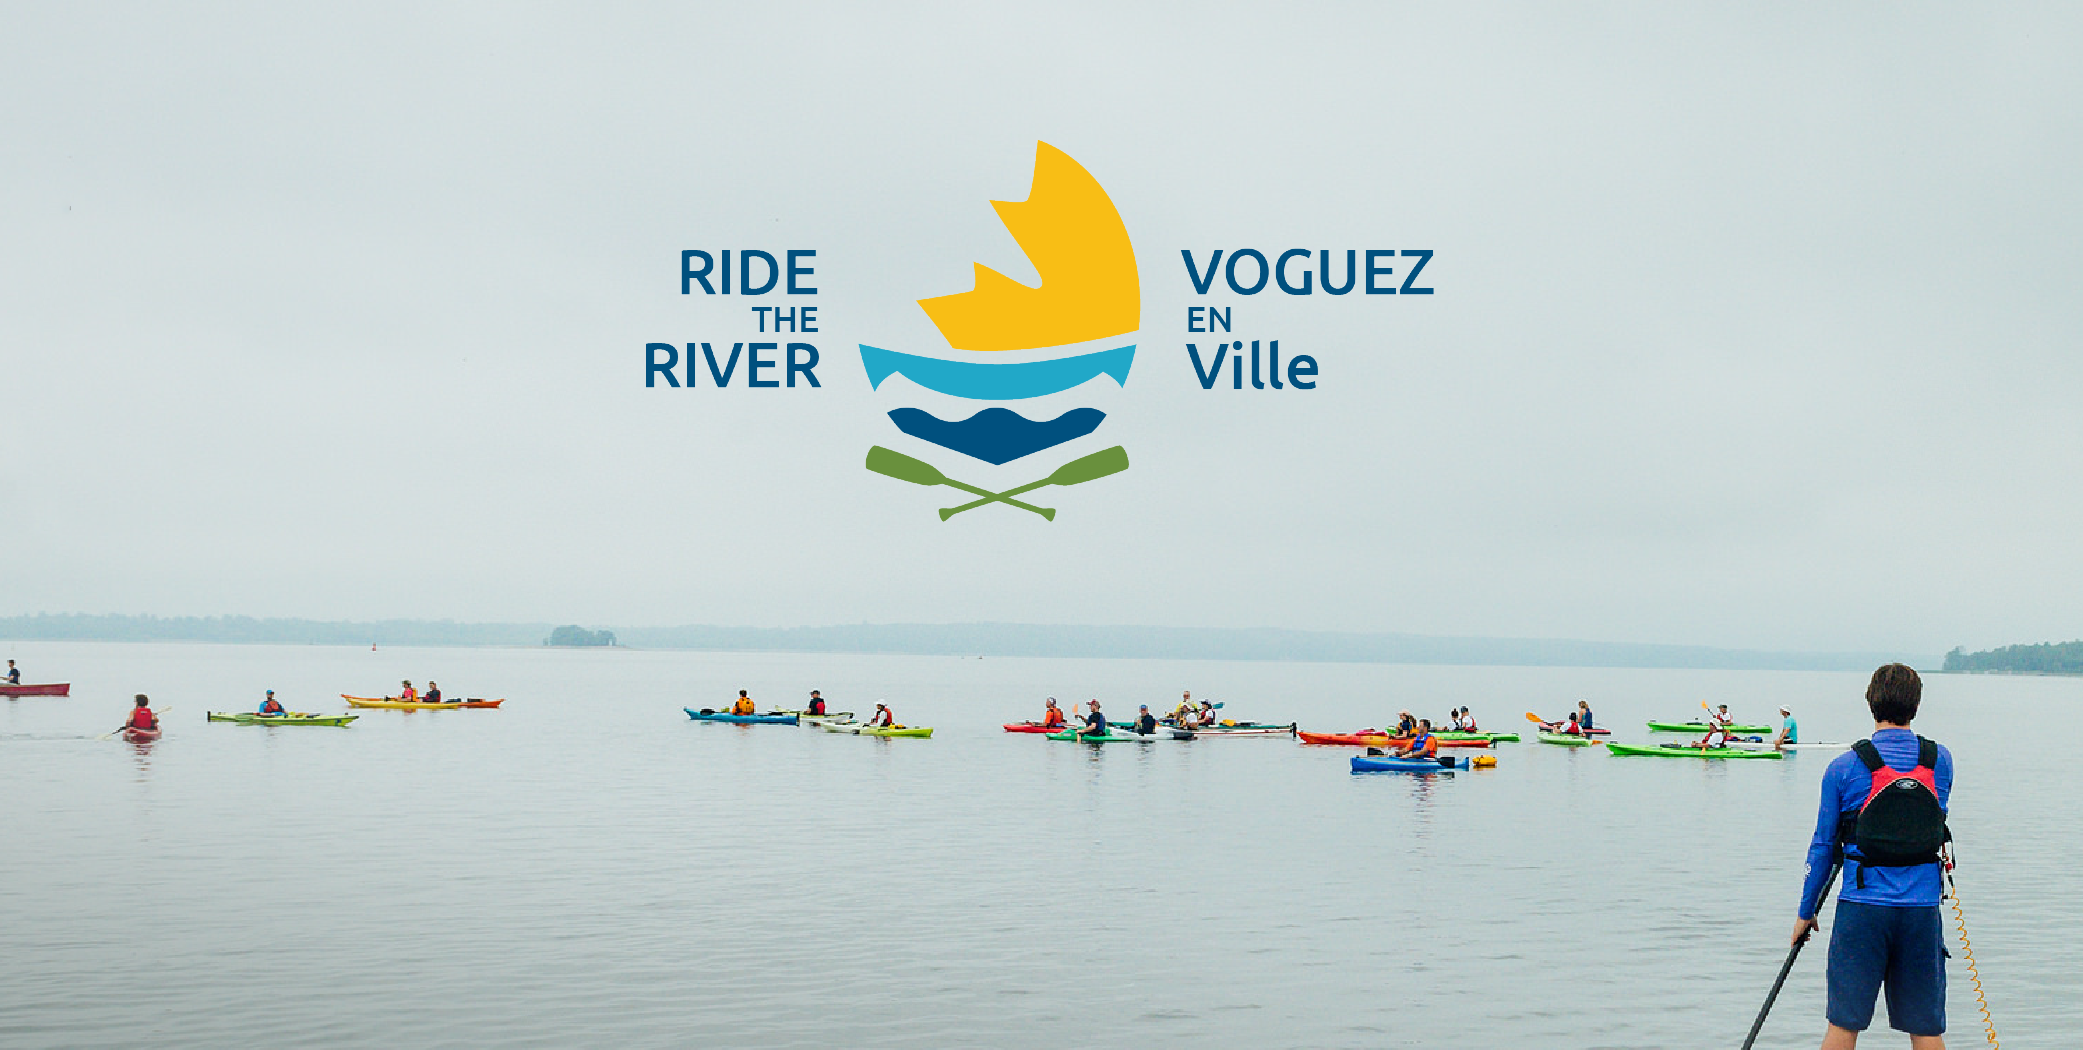
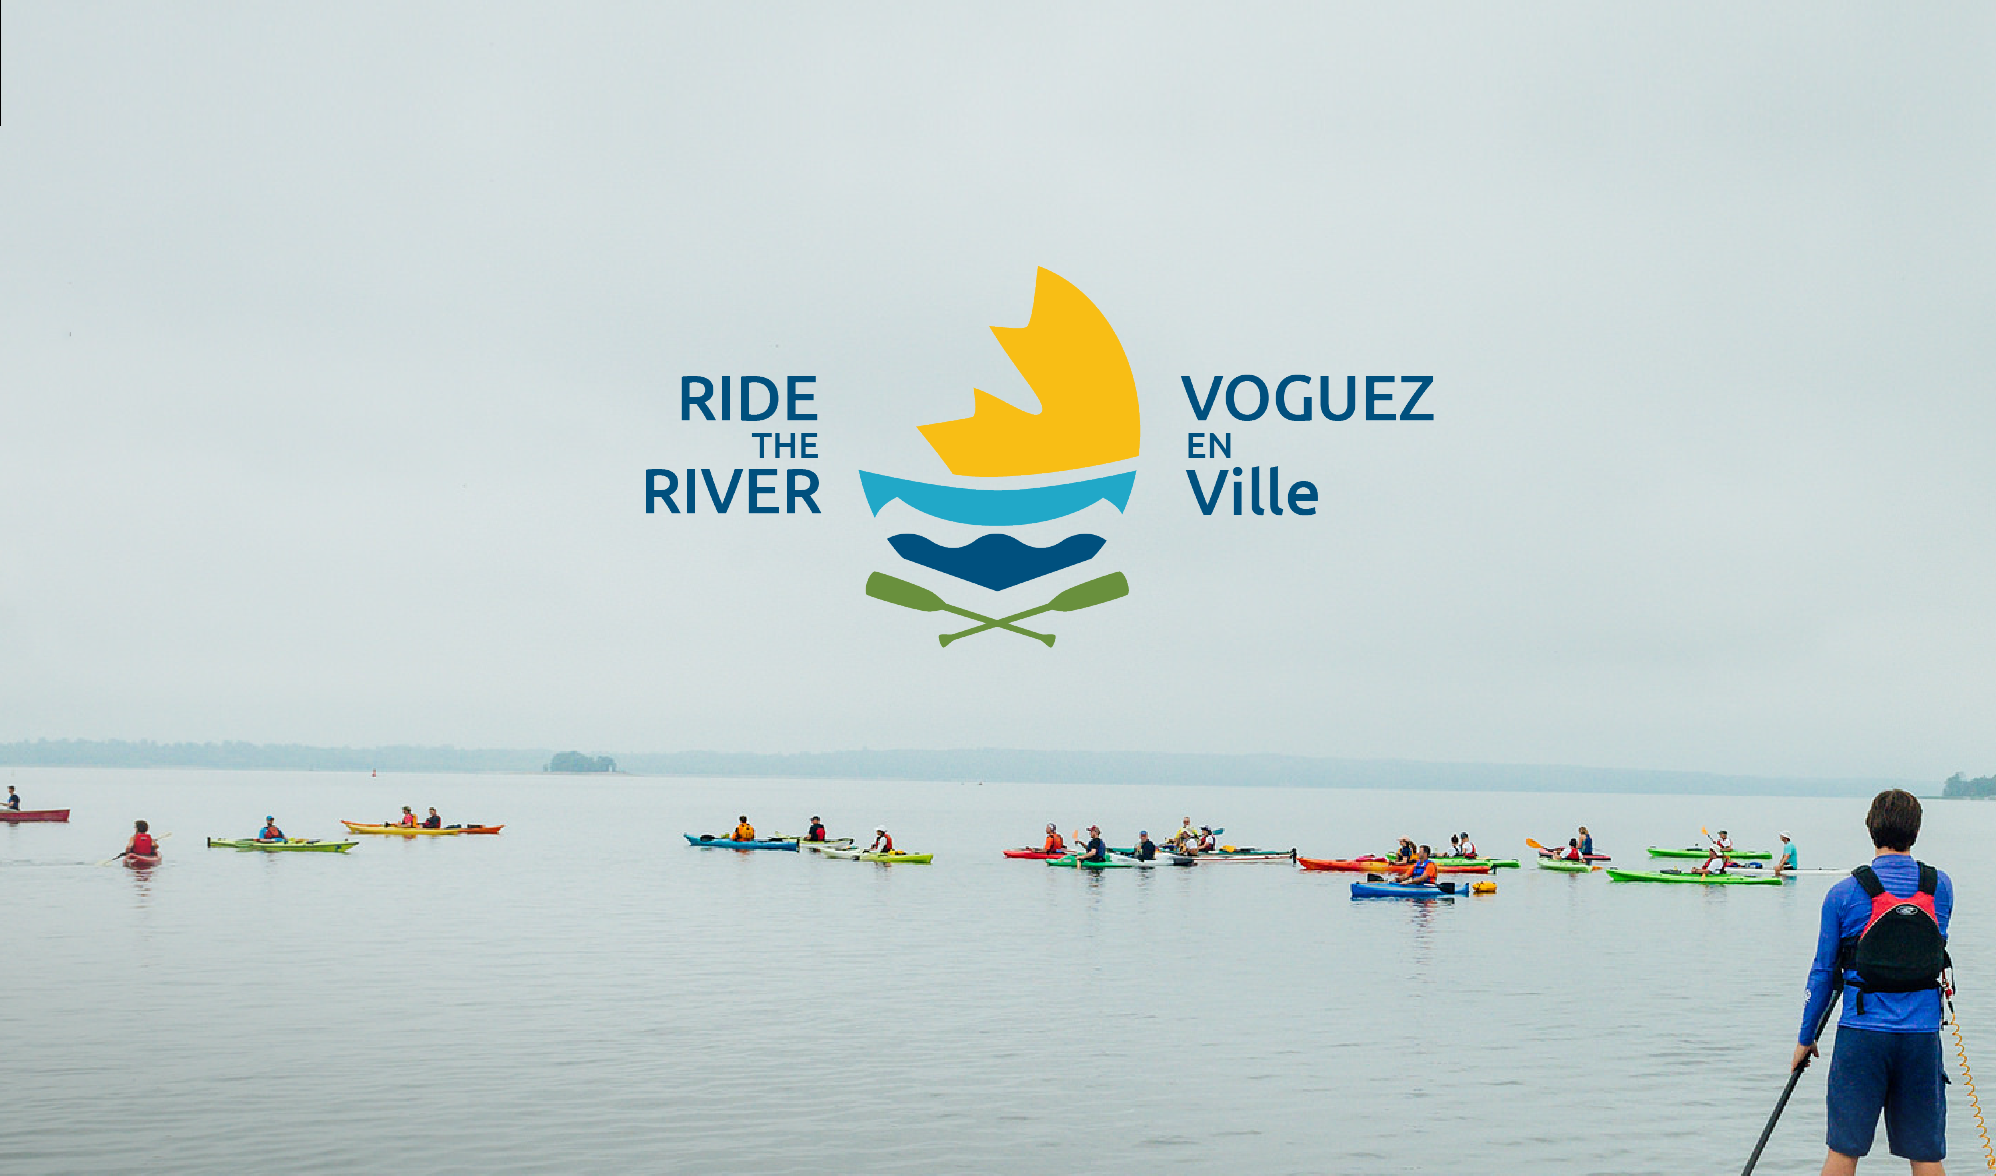
finished river parade pg

Changed region(s): [[0.0, 0.579, 1.0, 1.0], [0.3106, 0.1219, 0.7144, 0.5486]]

diff --git a/riverparade.css b/riverparade.css
@@ -16,7 +16,6 @@ html {
 	z-index: 99;
 }
 
-
 #mobilenav {
 	width: 80px;
 	height: 80px;
@@ -32,7 +31,7 @@ html {
 }
 
 #header {
-	max-width: 100vw;
+	width: 100vw;
 }
 
 
@@ -108,32 +107,97 @@ html {
 	position: relative;
 	background-size: cover;
 	background-position: center;
-	background-image: url(images/anglesw.png);
-	margin-top: -107px;
+	background-image: url(images/angles.png);
+	margin-top: -109px;
 }
 
 #description1 {
+	margin-top: -2px;
+	margin-bottom: 11vw;
 	position: relative;
-	color: black;
+	color: white;
 	width: 100%;
+	background-color: black;
 }
 
 .p1 {
-	width: 65vw;
+	width: 60vw;
 margin: auto;
-padding-top: 60px;
-padding-bottom: 60px;
+padding-top: 80px;
+padding-bottom: 80px;
 line-height: 1.4em;
+font-size: 1.25em;
+text-align: center;
 }
 
+.vw70 {
+	width: 60vw;
+	margin: auto;
+}
 
+#colours {
+	width: 20vw;
+	height: 25vw;
+	background-image: url(images/riverparade/planning_3.png);
+	background-size: cover;
+	background-position: center;
+	display: inline-block;
+	margin-left: 4.5vw;
+	margin-right: 5vw;
+}
+
+#rplogo {
+	width: 20vw;
+	height: 24vw;
+	background-image: url(images/riverparade/rp_logo.png);
+	background-size: cover;
+	background-position: center;
+	display: inline-block;
+	margin-left: 5vw;
+	margin-right: 4.5vw;
+}
+
+#web1 {
+	margin-top: 11vw;
+}
+
+#web2 {
+	transform: scale(1.1);
+	margin-top: 4vw;
+	margin-bottom: 4vw;
+}
+
+.formatting {
+	width: 50vw;
+	margin-right: 5vw;
+	margin-left: 5vw;
+	height: 100%;
+}
+
+#description2 {
+	position: relative;
+	color: white;
+	width: 100%;
+	background-color: black;
+}
+
+#print1 {
+	margin-top: 11vw;
+}
+
+#print2 {
+	margin-top: 11vw;
+}
+
+#print3 {
+	margin-top: 11vw;
+}
 
 #bottomspace {
 	height: 15vh;
 	width: 100%;
 	position: relative;
 }
-
 
 * {box-sizing: border-box}
 body {font-family: Helvetica, sans-serif; margin:0}
@@ -204,15 +268,58 @@ footer{
 		    font-size: 46px !important;
 		}
 
+		#mainimg {
+			width: 100vw;
+			height: 65vh;
+		}
+
 		#triangle3 {
 			width: 100%;
-			height: 105px;
+			height: 110px;
 			position: relative;
 			background-size: cover;
 			background-position: center;
-			z-index: -95;
-			margin-top: -30px;
+			margin-top: -109px;
 			background-image: url(images/angles2.png);
+		}
+
+		.vw70 {
+			width: 90vw;
+			margin: auto;
+		}
+
+		.p1 {
+			width: 80vw;
+		margin: auto;
+		padding-top: 8vw;
+		padding-bottom: 8vw;
+		line-height: 1.5em;
+		font-size: 1em;
+		}
+
+		#colours {
+			width: 35vw;
+			height: 40vw;
+			margin-left: 4.5vw;
+			margin-right: 5vw;
+		}
+
+		#rplogo {
+			width: 35vw;
+			height: 40vw;
+			margin-left: 5vw;
+			margin-right: 4.5vw;
+		}
+
+		.formatting {
+			width: 80vw;
+			margin-right: 5vw;
+			margin-left: 5vw;
+			height: 100%;
+		}
+
+		#web2 {
+			transform: scale(1.2);
 		}
 
 		footer{

diff --git a/riverparade.html b/riverparade.html
@@ -3,6 +3,7 @@
 <html lang="en">
 <head>
 	<link rel="stylesheet" type="text/css" href="riverparade.css">
+	<link rel="shortcut icon" type="image/png" href="images/favicon.png">
 		<script src="https://ajax.googleapis.com/ajax/libs/jquery/3.2.1/jquery.min.js"></script>
 		<meta name="viewport" content="width=device-width, initial-scale=1">
 </head>
@@ -40,7 +41,24 @@
 	<p class="p1"> Lorem ipsum dolor sit amet, consectetuer adipiscing elit. Aenean commodo ligula eget dolor. Aenean massa. Cum sociis natoque penatibus et magnis dis parturient montes, nascetur ridiculus mus. Donec quam felis, ultricies nec, pellentesque eu, pretium quis, sem. Nulla consequat massa quis enim.</p>
 </div>
 
-<section id="logo">
+<section id="logoetc" class="vw70">
+	<div id="rplogo"></div>
+	<div id="colours"></div>
+</section>
+
+<section id="rpwebsite" class="vw70">
+	<img id="web1" class="formatting" alt="river parade website" src="images/riverparade/desktop_web2.jpg"><img>
+	<img id="web2" class="formatting vw70" alt="river parade mobile" src="images/riverparade/mobile_web.png"><img>
+</section>
+
+<div id="description2">
+	<p class="p1"> Lorem ipsum dolor sit amet, consectetuer adipiscing elit. Aenean commodo ligula eget dolor. Aenean massa. Cum sociis natoque penatibus et magnis dis parturient montes, nascetur ridiculus mus. Donec quam felis, ultricies nec, pellentesque eu, pretium quis, sem. Nulla consequat massa quis enim.</p>
+</div>
+
+<section id="rpprint" class="vw70">
+		<img id="print1" class="formatting" alt="river parade poster" src="images/riverparade/poster.jpg"><img>
+		<img id="print2" class="formatting" alt="river parade flyer" src="images/riverparade/flyer.jpg"><img>
+		<img id="print3" class="formatting" alt="river parade postcard" src="images/riverparade/postcard.jpg"><img>
 </section>
 
 <div id="bottomspace"></div>

diff --git a/index.html b/index.html
@@ -3,6 +3,7 @@
 <html lang="en">
 <head>
 	<link rel="stylesheet" type="text/css" href="style.css">
+		<link rel="shortcut icon" type="image/png" href="images/favicon.png">
 		<script src="https://ajax.googleapis.com/ajax/libs/jquery/3.2.1/jquery.min.js"></script>
 		<meta name="viewport" content="width=device-width, initial-scale=1">
 </head>
